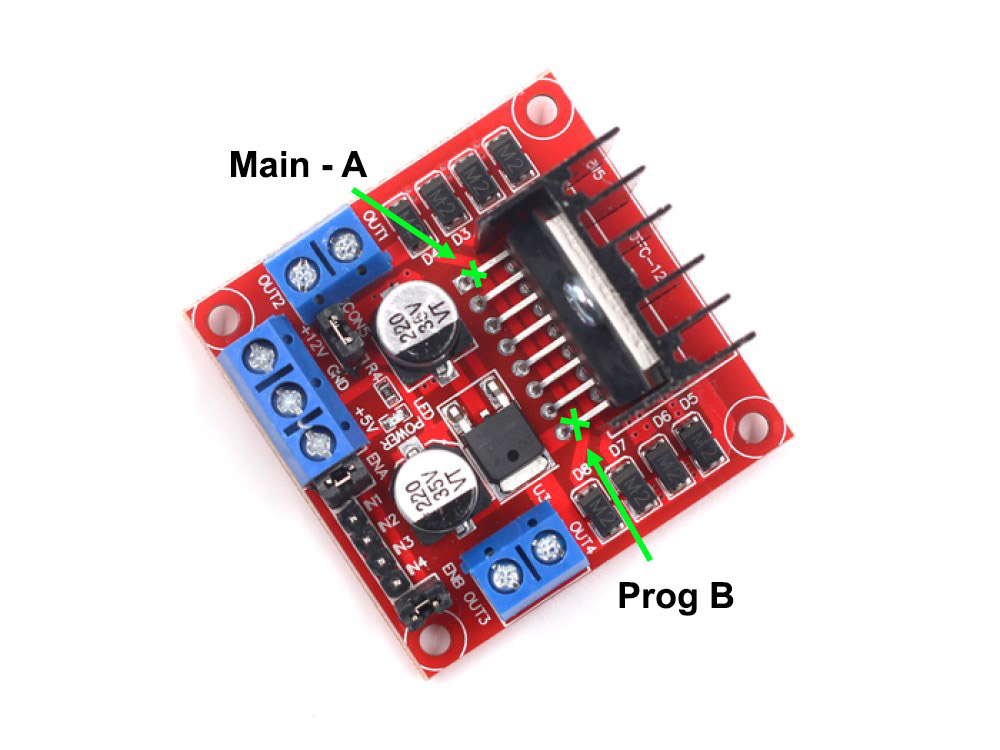
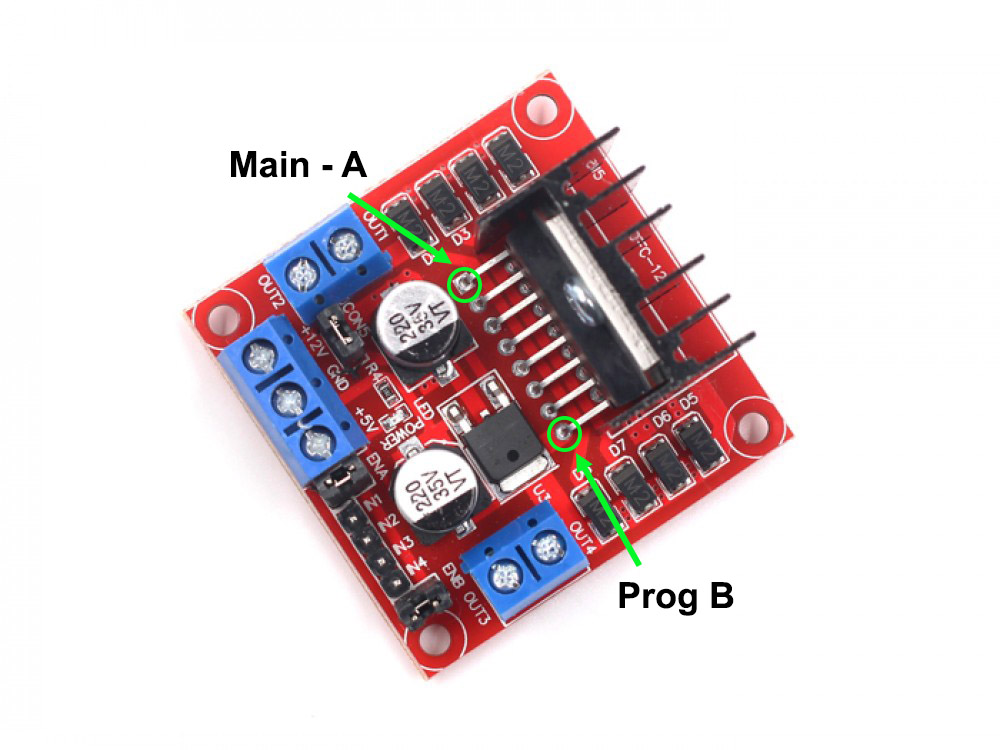
Add L298 info

Changed region(s): [[0.527, 0.552, 0.651, 0.7667], [0.372, 0.276, 0.496, 0.3987], [0.341, 0.2453, 0.372, 0.276]]

diff --git a/docs/advanced-setup/supported-motorboards/L298N-motor-board-setup.rst b/docs/advanced-setup/supported-motorboards/L298N-motor-board-setup.rst
@@ -24,13 +24,24 @@ The L298N Motor board is the same H-Bridge on the Arduino Motor Shield. Here are
 
   L298N Motor Board
 
+When is the L298N a Good Option?
+===================================
 
-.. figure:: ../../_static/images/motorboards/l298n_pinout.png
-  :alt: L298N Motor Driver Pinout
-  :scale: 25%
+You may wonder why one would go through the trouble of using this board when the Arduino / Deek-Robot Motor Shield already has what we need and is a recommended option. The answer is you may want to use this board because:
 
-Handling Current sense
-=======================
+* You already have one in your parts box
+* They are dirt cheap
+* You are not using an Arduino for your Command Station and a shield is unwieldy
+* You want something smaller
+* You are going to use the L298N for programming and something with more current for MAIN
+
+The disadvantage of this board:
+
+* It does not come with current sense. You will need to add it.
+
+
+L298N for MAIN and PROG with Current Sense
+=============================================
 
 You will need to have currense sense in order to program locos on the programming (service) track. In addition, current sense is necessary to provide short-circuit detection for each track. There are two methods to add current sensing to this board, the first method requires cutting two leads on the IC and soldering in current sense resistors. The other method is to use an external current sense board to measure the current going into the board.
 
@@ -45,37 +56,36 @@ This is easier than it sounds and takes about 15 minutes. To do this yourself, y
 * 18 Guage hookup wire
 * 2 Male to Male Arduino jumper wires (dupont connectors)
 
-You will need to cut the current sense pins on the L298N chip that are connected to ground and insert a resistor between the space you create on each side. Here is how:
+.. Note:: If you will only be using this board for the programming track and another board like the IBT_2 for your MAIN track, you only need one resistor and can follow the instructions for just the B side of the procedure.
+
+You will need to unsolder the current sense (CS) pins on the L298N chip that are connected to ground and insert a resistor between the lifted leg and ground on each side. Here is how:
 
 1. Remove all jumpers, there are 3!
 
-2. Cut the current sense legs on the L298N chip at the green X's. Pin 1 to the left is output CS A for Main. Pin 20 to the right is CS output B for Prog.
+2. Unsolder the A and B current sense legs on the L298N chip at the green circles being careful to lift them out without breaking them. Pin 1 to the left is output CS A for MAIN. Pin 15 to the right is CS output B for PROG.
 
-.. figure:: ../../_static/images/motorboards/l298n_board4.png
+.. figure:: ../../_static/images/motorboards/l298_board4.jpg
   :alt: L298N Motor Driver Pinout
-  :scale: 25%
+  :scale: 50%
 
+1. Lift each leg and bend them carfully upward to provide space for a resistor.
 
-3. Lift the top part of each leg and bend them carfully upward
+2. Cut one wire lead of the 1 Ohm resistor short, but long enough that you can solder that end into the hole left by unsoldering the CS leg, about 1/4" (6mm). This connects one end of the resistor to ground. Solder the resistor from the bottom leaving air space for cooling. Repeat on the other side.
 
-4. Strip a 2" (5cm) piece of wire at both ends and solder one end to the bent up pin. Repeat on the other side.
+3. Solder the CS leg of the chip you unsoldered to the top of the resistor. You should be able to carefully bend the leg to meet the top resistor lead as the resistor stands vertically. You are basically inserting a resistor into the space where you cut the leg of the chip. Solder the wire fairly close to the end of the resistor. Repeat on the other side. Do not trim the top resistor lead yet.
 
-5. Cut one leg of the 1 Ohm resistor short, but long enough that you can solder that end to the nub you left sticking out of the board. This connects one end of the resistor to ground. Repeat on the other side.
+4. Measure a jumper wire long enough to connect to the top of resistor A and reach over push into pin A0 on the Arduino. Solder one end of the jumper to the top of resistor A above where you soldered the chip's CS leg. Trim off any remaining resistor lead to remove any sharp points. Repeat for the resistor on side B making sure the male dupont end of the jumper can reach pin A1 on the Arduino.
 
-6. Now solder the other end of the wire to the end of the resistor on its side of the chip. You are basically inserting a resistor into the space where you cut the leg of the chip. Solder the wire fairly close to the end of the resistor. Repeat on the other side.
+5. If you haven't already, plug the male end of the A jumper into pin A0 on the Arduino and the male end of the B jumper to pin A1 on the Arduino.
 
-7. Measure a jumper wire long enough to connect to the top of resistor A and push into pin A0 on the Arduino. Solder one end of the jumper to the top of resistor A above where you soldered the length of wire. Trim off any remaining resistor lead to remove any sharp points. Repeat for the resistor on side B making sure the male dupont end of the jumper can reach pin A1 on the Arduino.
-
-8. Plug the male end of the A jumper into pin A0 on the Arduino and the male end of the B jumper to pin A1 on the Arduino.
-
-9. Configure the board in your Command Station in the next step.
+6. Configure the board in your Command Station in the next step.
 
 Configuring the Board in DCC++EX
 ^^^^^^^^^^^^^^^^^^^^^^^^^^^^^^^^^
 
 You have two choices regarding how to wire and configure the L298N motor driver board to the command station. Unlike the Arduino Motor Shield, this board has separate direction inputs which is where we apply the DCC signal. 
 
-Your first choice, the easy way, is to create a new motor board definition that uses the proper pins. This requires you to edit the config.h file, cut and paste the motor board definition below, upload the sketch with the new settings, and connect wires from the L298N board to the correct pins. The only disadvantage to this method is that is uses an extra pin (though there are plenty of spare pins on a Mega), and it uses the standard accuracy waveform. Standard accuracy is fine for almost all cases, but you can read more on the :doc:`../advanced-setup/high-accuracy`
+Your first choice, the easy way, is to create a new motor board definition that uses the proper pins. This requires you to edit the config.h file, cut and paste the motor board definition below, upload the sketch with the new settings, and connect wires from the L298N board to the correct pins on the Arduino. The only disadvantage to this method is that is uses an extra pin (though there are plenty of spare pins on a Mega), and it uses the standard accuracy waveform. Standard accuracy is fine for almost all cases, but you can read more on the :doc:`High Accuracy Waveform Mode</advanced-setup/high-accuracy>`
 
 Your second choice is to make a small inverter circuit (using 1 FET, IC, or transistor) to connect to the standard signal pin on the Command Station, and split it into two signals connect to the two pins on the L298N board. The advantage of this method is you use just one pin and get the high accuracy DCC waveform. The downside is that you have to solder together a circuit with 2 or 3 parts.
 
@@ -93,25 +103,31 @@ To wire the board, connect the pins as follows:
     |  Arduino      |           L298N             |
     +===============+=============================+
     | 2 (enable A)  | ENA                         |
-    +------------=--+-----------------------------+
+    +---------------+-----------------------------+
     | 4 (signal A1) | IN4                         |
-    +---------=-----+-----------------------------+
+    +---------------+-----------------------------+
     | 6 (signal A2) | IN3                         |
-    +-----------=---+-----------------------------+
+    +---------------+-----------------------------+
     | A0 (CS MAIN)  | CS A                        |
     +---------------+-----------------------------+
     | 3 (enable B)  | ENB                         |
-    +------------=--+-----------------------------+
+    +---------------+-----------------------------+
     | 5 (signal B1) | IN2                         |
-    +-----------=---+-----------------------------+
+    +---------------+-----------------------------+
     | 7 (signal B2) | IN1                         |
-    +------------=--+-----------------------------+
+    +---------------+-----------------------------+
     | A1 (CS PROG)  | CS B                        |
     +---------------+-----------------------------+
     |     5V        |   Vcc  (+5V from Arduino)   |
     +---------------+-----------------------------+
     |     GND       |    GND                      |
     +---------------+-----------------------------+
+
+.. figure:: ../../_static/images/motorboards/l298n_pinout.png
+  :alt: L298N Motor Driver Pinout
+  :scale: 25%
+
+  L298N Motor Driver Pinout
 
 Once wired correctly, edit the config.h file and replace the following line:
 
@@ -132,8 +148,8 @@ with this:
 Save the file and then upload the entire sketch into the Command Station using the Arduino IDE as explained in :doc:`Installing Using the Arduino IDE</get-started/arduino-ide>`
 
 
-Using an Inverter circuit (1 signal pin)
-~~~~~~~~~~~~~~~~~~~~~~~~~~~~~~~~~~~~~~~~~~
+Using One Signal Pin With an Inverter circuit
+~~~~~~~~~~~~~~~~~~~~~~~~~~~~~~~~~~~~~~~~~~~~~~
 
 This method uses 1 pin on the Arduino and the standard motorboard definition. It uses the high accuracy DCC waveform.
 
@@ -158,19 +174,19 @@ To wire the board, connect the pins as follows:
     |  Arduino      |           L298N             |
     +===============+=============================+
     | 3 (enable A)  | ENA                         |
-    +------------=--+-----------------------------+
+    +---------------+-----------------------------+
     | 12 (signal A1)| IN4                         |
-    +---------=-----+-----------------------------+
+    +---------------+-----------------------------+
     | Inverter A    | IN3                         |
-    +-----------=---+-----------------------------+
+    +---------------+-----------------------------+
     | A0 (CS MAIN)  | CS A                        |
     +---------------+-----------------------------+
     | 11 (enable B) | ENB                         |
-    +------------=--+-----------------------------+
+    +---------------+-----------------------------+
     | 13 (signal B1)| IN2                         |
-    +-----------=---+-----------------------------+
+    +---------------+-----------------------------+
     | Inverter B    | IN1                         |
-    +------------=--+-----------------------------+
+    +---------------+-----------------------------+
     | A1 (CS PROG)  | CS B                        |
     +---------------+-----------------------------+
     |     5V        |   Vcc  (+5V from Arduino)   |
@@ -197,10 +213,15 @@ with this:
 Save the file and then upload the entire sketch into the Command Station using the Arduino IDE as explained in :doc:`Installing Using the Arduino IDE</get-started/arduino-ide>`
 
 
-Method 1: Using An External Current Sense Board
+Method 2: Using An External Current Sense Board
 -------------------------------------------------
 
+Coming Soon
+
 .. todo:: finish this
+
+L298N for PROG and High Current IBT_2 for MAIN
+================================================
 
 
 
